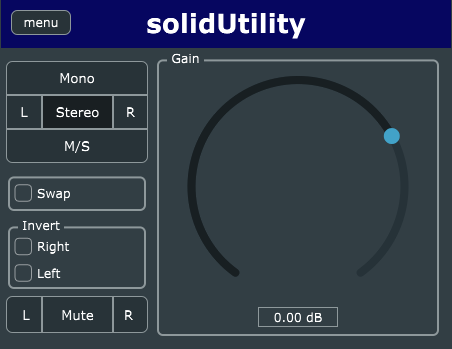
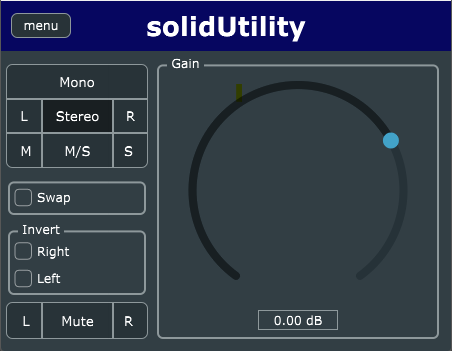
Fix up documentation for latest changes

Changed region(s): [[0.0, 0.0, 1.0, 1.0]]

diff --git a/docs/USER_MANUAL.md b/docs/USER_MANUAL.md
@@ -1,9 +1,9 @@
 # solidUtility _V0.3.0_
 
-solidUtility is a versatile channel utility plug-in for Digital Audio Workstations.
+**solidUtility** is a versatile channel utility plug-in for Digital Audio Workstations.
 It is compatible with all DAWs that support the VST3 plug-in format.
 
-It is currently supported on Windows 64 bit platforms and all Linux 64 bit distributions.
+It is currently supported on Windows 64-bit platforms, Linux 64-bit distributions, and MacOS versions starting at 10.15 on both arm and intel architectures.
 
 This user's manual will walk you through each of the controls on the _solidUtility_ interface.
 
@@ -11,8 +11,11 @@ This user's manual will walk you through each of the controls on the _solidUtili
 
 ![solidUtility's Header](utility-header.png)
 
-The `menu` button on the left contains the `about` menu option to display
-version, copyright, and other information about the software.
+The `menu` button on the left contains:
+
+- `tooltip` : Turn on/off the tooltips that most controls have.
+- `about`   : menu option to display version, copyright, and 
+              other information about the software.
 
 ## Main Controls
 
@@ -23,13 +26,19 @@ This may then be further modified by the other controls.
 
 ![solidUtility Channel Mode Selectors](stereo-mode.png)
 
-- Mono : Sums the two input channels a places that sum on both outputs.
-- Stereo : 'Normal mode' THe left input is placed on the left output and the 
+- **Mono** : Sums the two input channels a places that sum on both outputs.
+- **Stereo** : 'Normal mode' The left input is placed on the left output and the 
   right input is placed on the right output.
-- Left : (Labelled 'L'). The **left** input is copied to both the left and the right outputs.
-- Right : (Labelled 'R'). The **right** input is copied to both the left and the right outputs.
-- M/S : Mid-side mode. The mid channel is place on the left output and side channel is placed
-  on the right output.
+- **Left** : (Labelled 'L'). The **left** input is copied to both the left and the
+  right outputs.
+- **Right** : (Labelled 'R'). The **right** input is copied to both the left and the
+  right outputs.
+- **M/S** : Mid-side mode. The mid channel is place on the left output and side
+  channel is placed on the right output.
+- **Mid** : (Labelled 'M'). The **mid** channel is placed on both the left and right
+  output channels. (Note, this functionally equivalent to Mono mode)
+- **Side** : (Labelled 'S'). The **side** channel is placed on both the left and right
+  output channels.
 
 ### Swap
 
@@ -44,9 +53,9 @@ Switches the polarity of the input signal.
 Mute one or both outputs. Only one of the selections can be active.
 Clicking on an active button will turn it off.
 
-- Mute : Mute both outputs.
-- Left : (Labelled 'L') Mute the left output.
-- Right : (Labelled 'R' ) Mute the right output.
+- **Mute** : Mute both outputs.
+- **Left** : (Labelled 'L') Mute the left output.
+- **Right** : (Labelled 'R' ) Mute the right output.
 
 ### Gain
 
@@ -61,7 +70,7 @@ You can also click in the text box and type in a specific value.
 
 The signal flows through the controls in the following order (mostly top-to-bottom):
 
-- Channel Mode selector
+- Channel Mode Selector
 - Swap
 - Invert
 - Gain
@@ -71,14 +80,14 @@ The signal flows through the controls in the following order (mostly top-to-bott
 
 ### Host Automatable parameters
 
-This table gives the names of the paramters that _solidUtility_ makes available
+This table gives the names of the parameters that _solidUtility_ makes available
 to the host and which control on the UI it corresponds to.
 
 |Parameter Name|UI Control|
 |---|---|
-|Gain| The Gain knob|
-|InvertL| The "Left" checkbox in the Invert group|
-|InvertR| The "Right" checkbox in the Invert group|
-|Mute| The Mute Selector button set|
+|Gain       | The Gain knob|
+|InvertL    | The "Left" checkbox in the Invert group|
+|InvertR    | The "Right" checkbox in the Invert group|
+|Mute       | The Mute Selector button set|
 |Stereo Mode| The Channel Mode Selector|
-|Swap| The Swap checkbox|
+|Swap       | The Swap checkbox|

diff --git a/docs/INSTALLATION_GUIDE.md b/docs/INSTALLATION_GUIDE.md
@@ -2,7 +2,7 @@
 
 The latest released version of _solidUtility_ can be found on github at:
 
-https://github.com/SolidFuel/ChanTool/releases/latest
+https://github.com/SolidFuel/Utility/releases/latest
 
 There will be a few files available to help with install.
 Below are instructions for each plaform.
@@ -15,7 +15,7 @@ Download the file `solidUtility-VX.X.X-win64-install.exe`, where X.X.X will
 be the release number.
 
 **Note** Chrome browser will block the download with a warning about it
-not being "commonly downloaded". Either use another browser or click through
+not being "commonly downloaded". Click through
 the warning to download anyway.
 
 ### VST3 zip
@@ -25,7 +25,7 @@ the archive and move the `solidUtility.vst3` file to the `C:\Program Files\Commo
 directory.
 
 **Note** Chrome browser will block the download with a warning about it
-not being "commonly downloaded". Either use another browser or click through
+not being "commonly downloaded". Click through
 the warning to download anyway.
 
 ## Linux
@@ -51,3 +51,12 @@ Unzip the file solidUtility-Vx.x.x-linux-amd64.zip. Place the resulting
 
 This can also be placed in `/usr/local/lib/vst3` for system-wide use. You will
 need superuser privileges to do so.
+
+## MacOS
+
+### Installer
+A dmg style installer is provided that works for both intel and arm architectures.
+All version from 10.15 to 14.1 are supported.
+
+Download the file `solidUtility_VX.X.X_macos-universal.dmg`. Double click on the file
+and follow the directions given.

diff --git a/README.md b/README.md
@@ -1,6 +1,8 @@
 # solidUtility
 
-Versatile VST3 Channel Utility for Digital Audio Workstations
+Versatile VST3 Channel Utility for Digital Audio Workstations.
+
+solidUtility can swap channels, mute channels, do mid-side encoding and decoding, phase invert and more!
 
 ![Utility UI](docs/utility-ui.png)
 
@@ -14,14 +16,18 @@ Please see the [Installation Guide](docs/INSTALLATION_GUIDE.md)
 
 ## Building
 
-Build should work for Windows and Linux. There is tooling for MacOS, but I don't
-think it works.
+Build works for Windows, Linux, and MacOS. 
 
 ```sh
-git clone https://github.com/SolidFuel/ChanTool.git
-cd ChanTool
-cmake -S. -Bbuild
-cmake --build build
+git clone https://github.com/SolidFuel/Utility.git
+cd Utility
+
+# Only needed for MacOS
+git submodule init
+git submodule update
+
+cmake -S. -Bbuild -DCMAKE_BUILD_TYPE=Release
+cmake --build build --config Release
 ```
 
 ## Technology
@@ -30,7 +36,7 @@ cmake --build build
 
 ## License/Copyright
 
-ChanTool - Simple DAW Channel Utility (C) 2023 Sulid Fuel
+solidUtility - Versatile VST3 Channel Utility (C) 2023 Solid Fuel
 
 This program is free software: you can redistribute it and/or modify it under
 the terms of the **GNU General Public License** as published by the Free

diff --git a/docs/RELEASE_CHECKLIST.md b/docs/RELEASE_CHECKLIST.md
@@ -17,6 +17,8 @@
 - Windows
   - vst3 zip
   - installer
+- MacOS
+  - dmg installer
 - Manual
   - user manual
   - install guide
